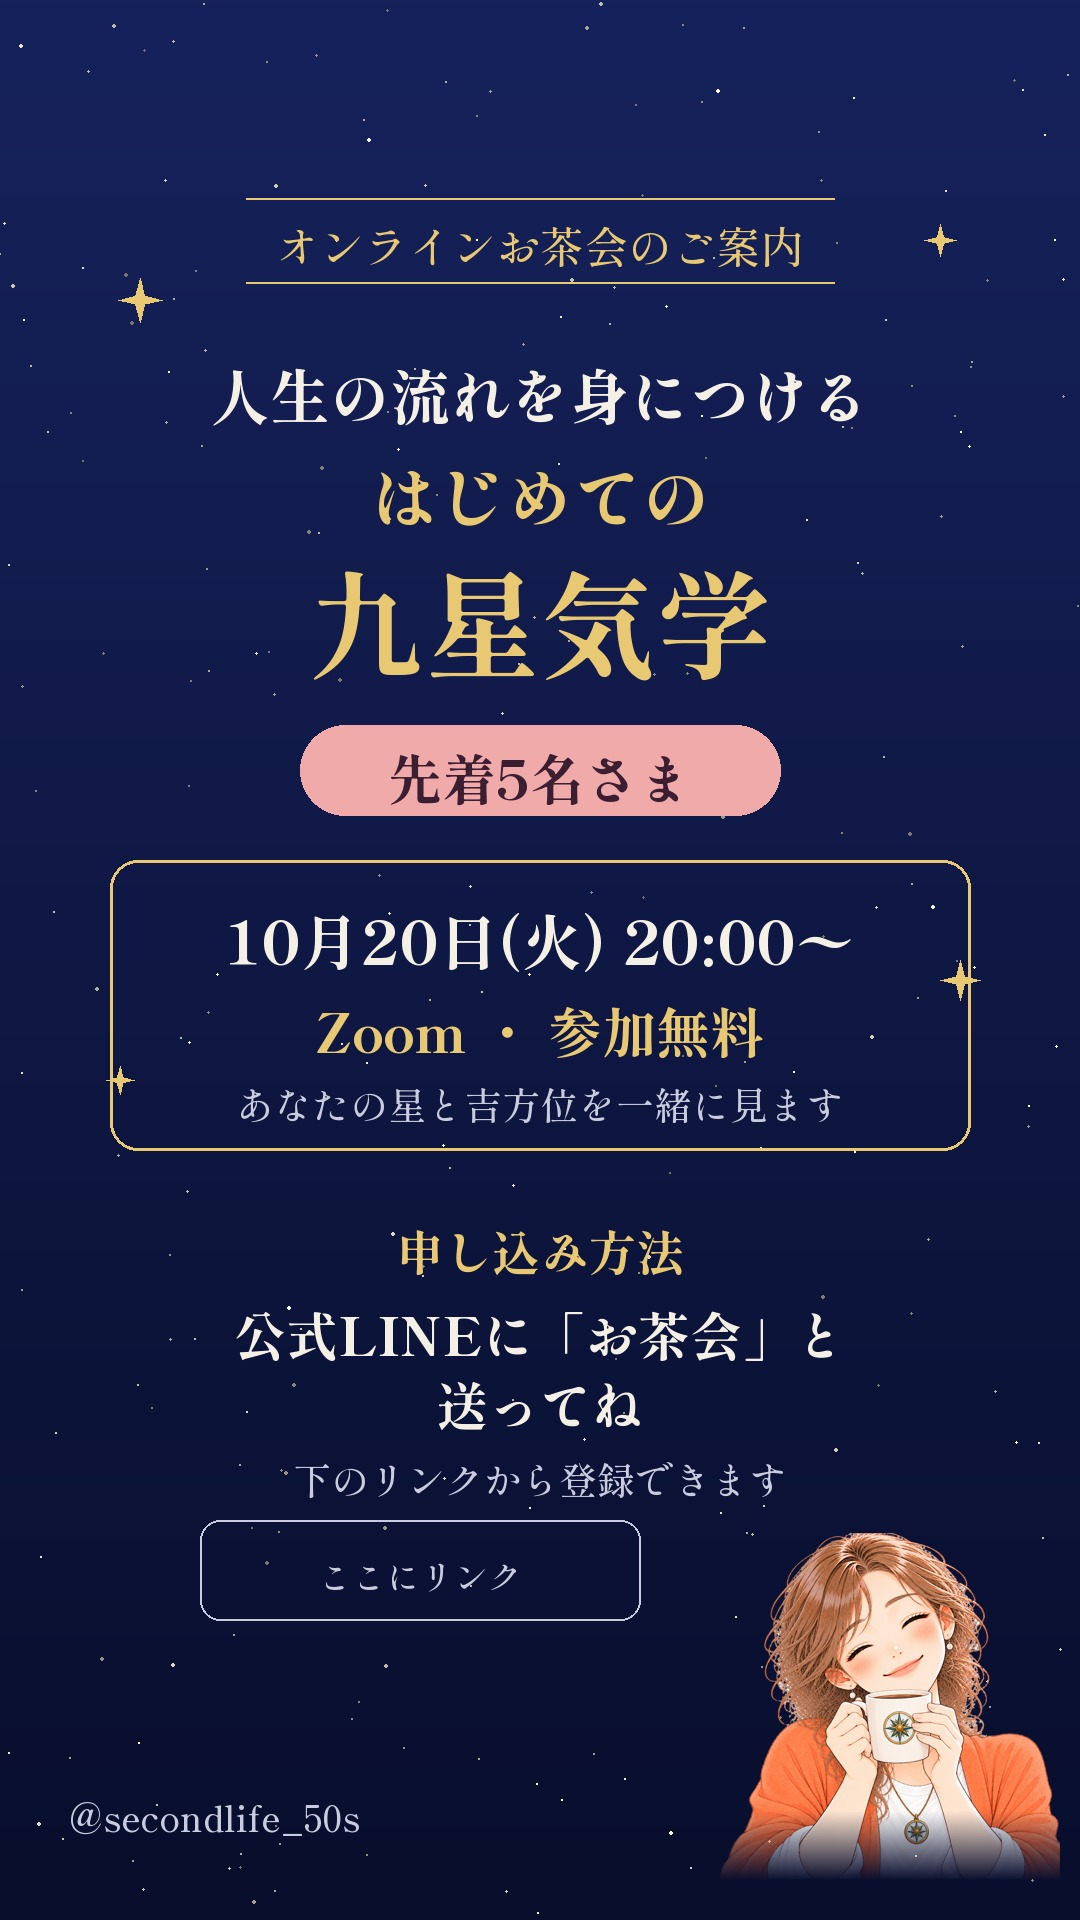
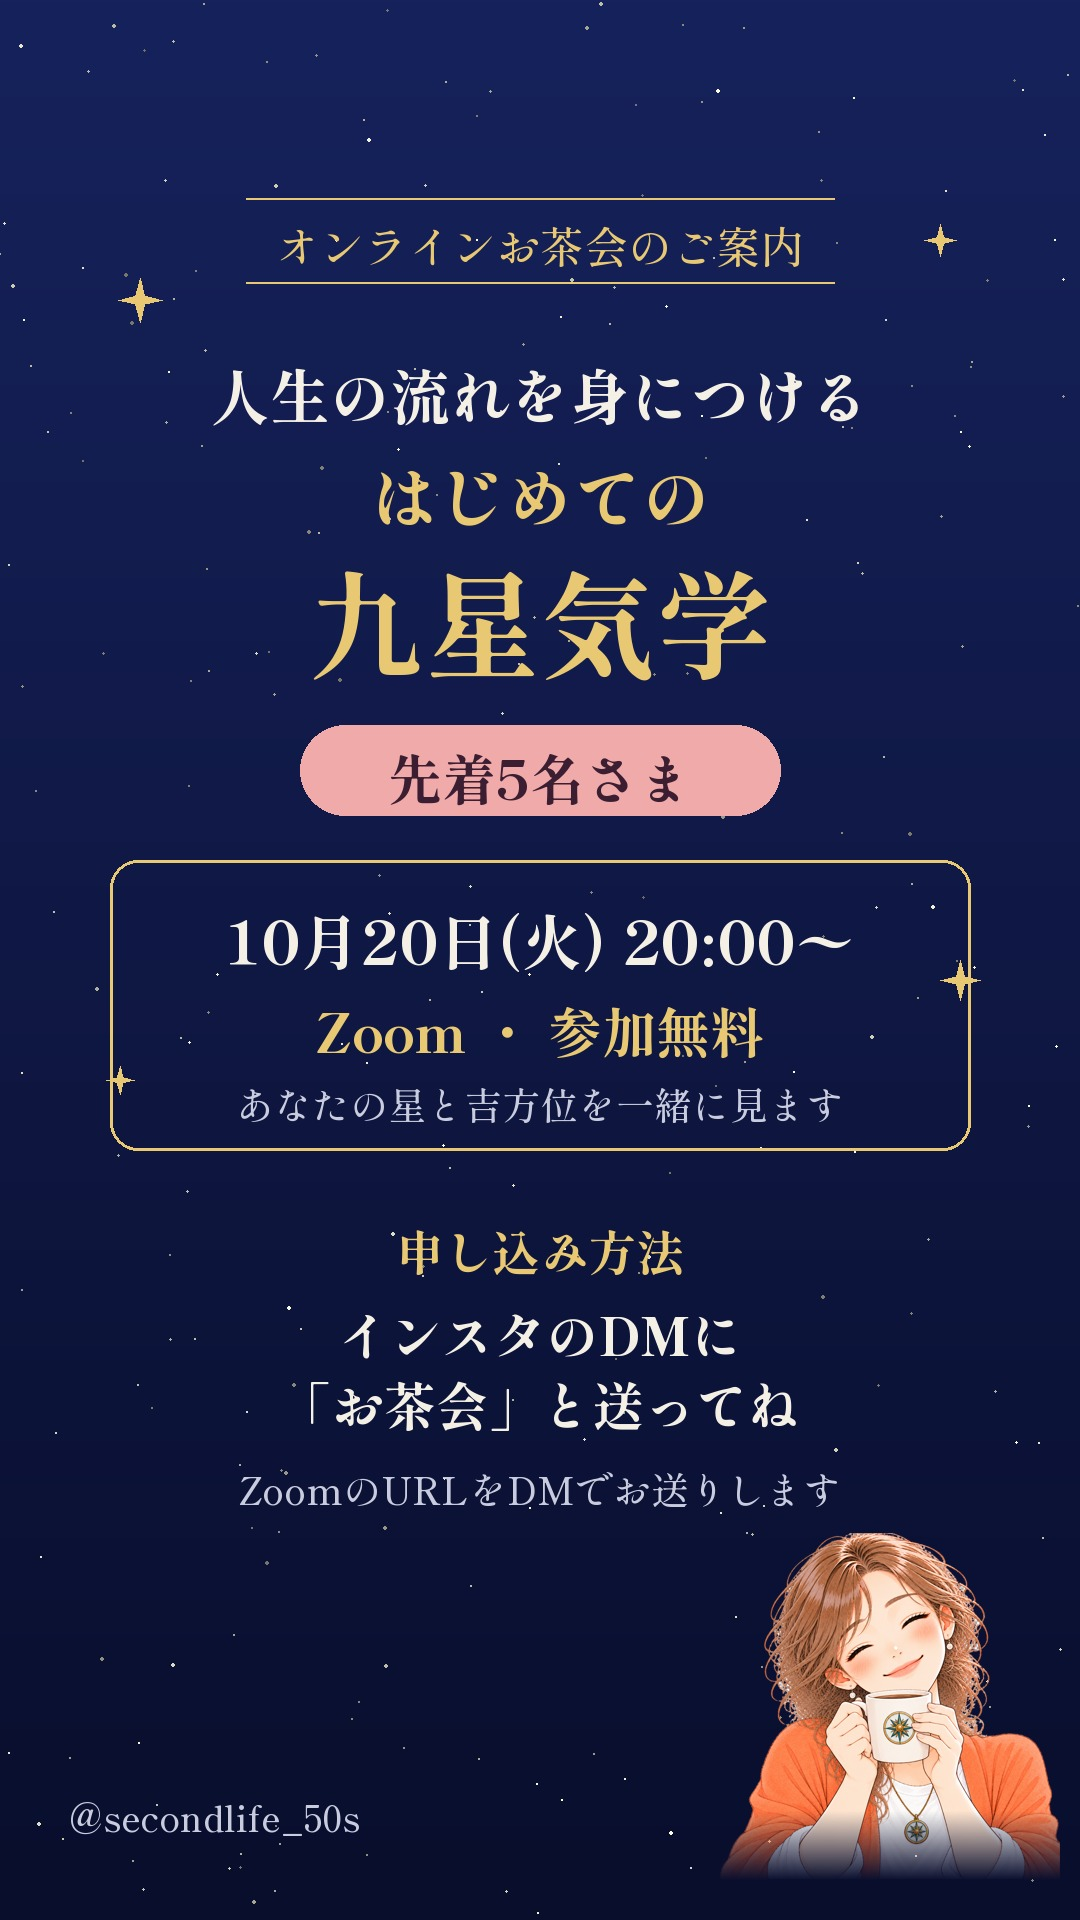
お茶会の申し込みをインスタのDMに変更
Claude-Session: https://claude.ai/code/session_01QCjcdfeJxrrhGewX2BNazy

Changed region(s): [[0.2139, 0.6875, 0.7333, 0.7812], [0.7333, 0.6875, 0.7639, 0.7188], [0.3361, 0.8125, 0.3667, 0.8438]]

diff --git a/ochakai/2026-10-20/make2.py b/ochakai/2026-10-20/make2.py
@@ -1,4 +1,4 @@
-# お茶会の告知ストーリー(先着5名・公式LINEで申し込み)と満席のお知らせを作る。
+# お茶会の告知ストーリー(先着5名・インスタのDMで申し込み)と満席のお知らせを作る。
 # 使い方: python3 make2.py <character/v2> <出力フォルダ>
 import random, sys, os
 from PIL import Image, ImageDraw, ImageFont
@@ -37,6 +37,7 @@ im,d=base(); header(d,'オンラインお茶会のご案内')
 c(d,350,'人生の流れを身につける',60)
 c(d,445,'はじめての',68,GOLD)
 c(d,535,'九星気学',116,GOLD)
+# 申し込みはインスタのDM(YUKOさんの希望 10/16)
 # 先着5名のリボン
 d.rounded_rectangle([300,725,780,815],radius=45,fill=ROSE)
 ft=f(54); t='先着5名さま'; d.text(((W-d.textlength(t,font=ft))/2,737),t,font=ft,fill=(60,30,50))
@@ -45,12 +46,9 @@ c(d,895,'10月20日(火) 20:00〜',60)
 c(d,990,'Zoom ・ 参加無料',54,GOLD)
 c(d,1075,'あなたの星と吉方位を一緒に見ます',38,SOFT,False)
 c(d,1215,'申し込み方法',48,GOLD)
-c(d,1295,'公式LINEに「お茶会」と',52)
-c(d,1365,'送ってね',52)
-c(d,1450,'下のリンクから登録できます',38,SOFT,False)
-# リンクスタンプを置く場所(空けておく)
-d.rounded_rectangle([200,1520,640,1620],radius=20,outline=SOFT,width=2)
-c(d,1530,'ここにリンク',34,SOFT,False) if False else d.text((420-d.textlength('ここにリンク',font=f(34,False))/2,1550),'ここにリンク',font=f(34,False),fill=SOFT)
+c(d,1295,'インスタのDMに',52)
+c(d,1365,'「お茶会」と送ってね',52)
+c(d,1460,'ZoomのURLをDMでお送りします',38,SOFT,False)
 chara(im,'pose-mug.png')
 d.text((70,H-130),'@secondlife_50s',font=f(36,False),fill=SOFT)
 im.save(os.path.join(out,'story-announce-5.jpg'),quality=92)
@@ -64,8 +62,8 @@ c(d,880,'お申し込みくださった皆さま',48)
 c(d,950,'ありがとうございます',48)
 d.rounded_rectangle([110,1080,970,1340],radius=28,outline=GOLD,width=3)
 c(d,1120,'次回もひらく予定です',52,GOLD)
-c(d,1200,'公式LINEで、いちばん先に',42,WHITE,False)
-c(d,1260,'お知らせします',42,WHITE,False)
+c(d,1200,'決まったら、ストーリーで',42,WHITE,False)
+c(d,1260,'お知らせしますね',42,WHITE,False)
 chara(im,'pose-cheer.png')
 d.text((70,H-130),'@secondlife_50s',font=f(36,False),fill=SOFT)
 im.save(os.path.join(out,'story-full.jpg'),quality=92)
